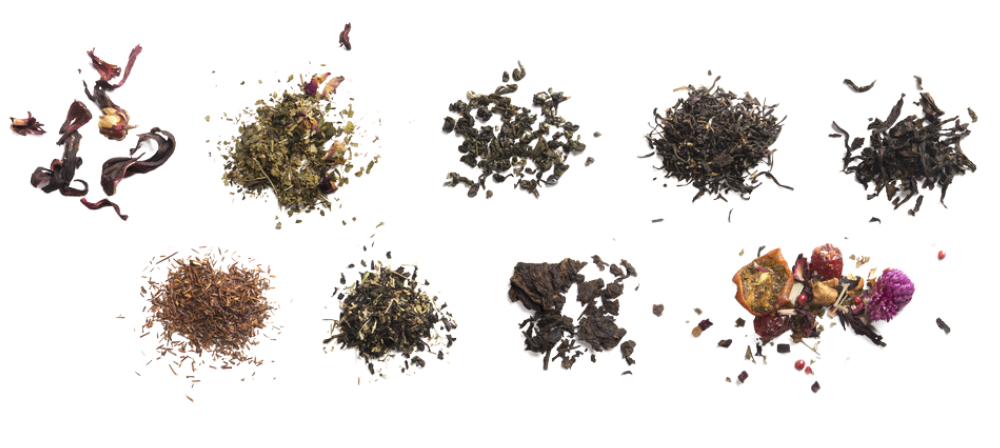
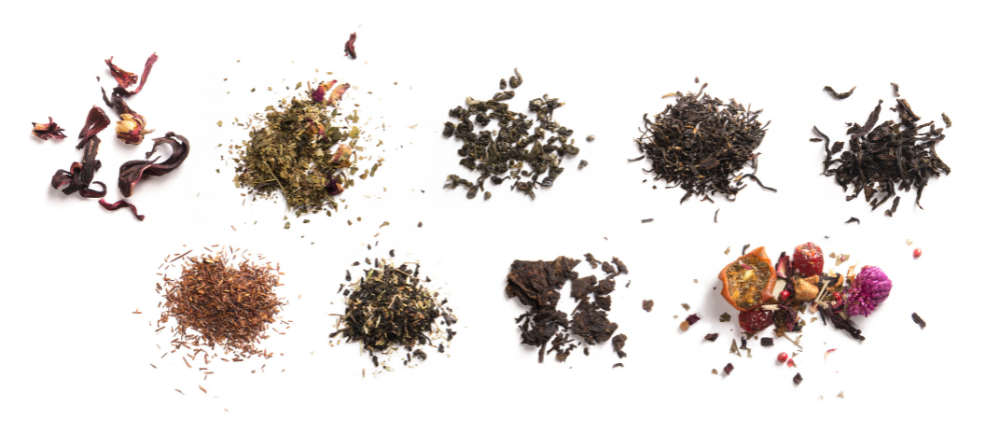
Switched images to the ones  without watermarks

diff --git a/src/components/Products.jsx b/src/components/Products.jsx
@@ -1,13 +1,11 @@
-
 import {products} from "../data";
 import {UseCartContext} from "../contexts/CartContext";
-
 
 const teaLeaves = products.filter((product) => product.type === "teaLeaves");
 const teaWare = products.filter((product) => product.type === "teaware");
 
 export const Products = () => {
-  const { addProduct } = UseCartContext();
+  const {addProduct} = UseCartContext();
   const handleAddToCart = (product) => {
     addProduct(product);
   };
@@ -15,11 +13,16 @@ export const Products = () => {
     <>
       <section>
         <h2 className="text-[34px] text-center mt-10 font-cinzel">Tea</h2>
-        <p className="text-center text-[#5f5f5f] italic px-4">Savor the essence of Asia with our exclusive single-origin teas.</p>
-      <p className="text-center text-[#5f5f5f] italic px-4">Expertly crafted to capture each region's unique character, our collection reflects the artistry of skilled tea makers.</p>
-      <div className="flex justify-center">
-      <img src="./src/assets/tea-leaves.png"/>
-      </div>
+        <p className="text-center text-[#5f5f5f] italic px-4">
+          Savor the essence of Asia with our exclusive single-origin teas.
+        </p>
+        <p className="text-center text-[#5f5f5f] italic px-4">
+          {`Expertly crafted to capture each region's unique character, our
+          collection reflects the artistry of skilled tea makers.`}
+        </p>
+        <div className="flex justify-center">
+          <img src="./src/assets/tea-leaves.png" />
+        </div>
         <div className="w-fit mx-auto grid grid-cols-1 lg:grid-cols-3 md:grid-cols-2 justify-items-center justify-center gap-y-20 gap-x-14 mt-10 mb-5 lg:px-32 md:px-24 px-12">
           {teaLeaves.map((product) => (
             <div key={product.id} className="relative group">
@@ -38,9 +41,7 @@ export const Products = () => {
                   <p className="text-white text-[23px]">Add to Cart</p>
                 </button>
               </div>
-              <h3 className="text-[25px] pt-5">
-                {product.productName}
-              </h3>
+              <h3 className="text-[25px] pt-5">{product.productName}</h3>
               <p className="text-[#6f6f6f] italic">{product.description}</p>
               <p className="text-[20px]">
                 {product.price.toFixed(2)} Euro / 100g
@@ -52,8 +53,13 @@ export const Products = () => {
 
       <section className="pb-5">
         <h2 className="text-[34px] text-center mt-28 font-cinzel">Teaware</h2>
-        <p className="text-center text-[#5f5f5f] italic px-4">Elevate your tea experience with our meticulously crafted teaware.</p>
-        <p className="text-center text-[#5f5f5f] italic px-4">Indulge in a simple and mindful brewing ritual that enhances the essence of each cup.</p>
+        <p className="text-center text-[#5f5f5f] italic px-4">
+          Elevate your tea experience with our meticulously crafted teaware.
+        </p>
+        <p className="text-center text-[#5f5f5f] italic px-4">
+          Indulge in a simple and mindful brewing ritual that enhances the
+          essence of each cup.
+        </p>
         <div className="w-fit mx-auto grid grid-cols-1 lg:grid-cols-3 md:grid-cols-2 justify-items-center justify-center gap-y-20 gap-x-14 mt-10 mb-5 lg:px-32 md:px-24 px-12">
           {teaWare.map((product) => (
             <div key={product.id} className="relative group">

diff --git a/src/data.js b/src/data.js
@@ -10,15 +10,15 @@ import tea9 from "./assets/tea9.jpg";
 import tea10 from "./assets/tea10.jpg";
 import tea11 from "./assets/tea11.jpg";
 import tea12 from "./assets/tea12.jpg";
-import cup1 from "./assets/cup1.png";
-import cup2 from "./assets/cup2.png";
-import cup3 from "./assets/cup3.png";
-import set1 from "./assets/set1.png";
-import set2 from "./assets/set2.png";
-import set3 from "./assets/set3.png";
-import set4 from "./assets/set4.png";
-import set5 from "./assets/set5.png";
-import set6 from "./assets/set6.png";
+import cup1 from "./assets/cup1.jpg";
+import cup2 from "./assets/cup2.jpg";
+import cup3 from "./assets/cup3.jpg";
+import set1 from "./assets/set1.jpg";
+import set2 from "./assets/set2.jpg";
+import set3 from "./assets/set3.jpg";
+import set4 from "./assets/set4.jpg";
+import set5 from "./assets/set5.jpg";
+import set6 from "./assets/set6.jpg";
 
 export const products = [
   {
